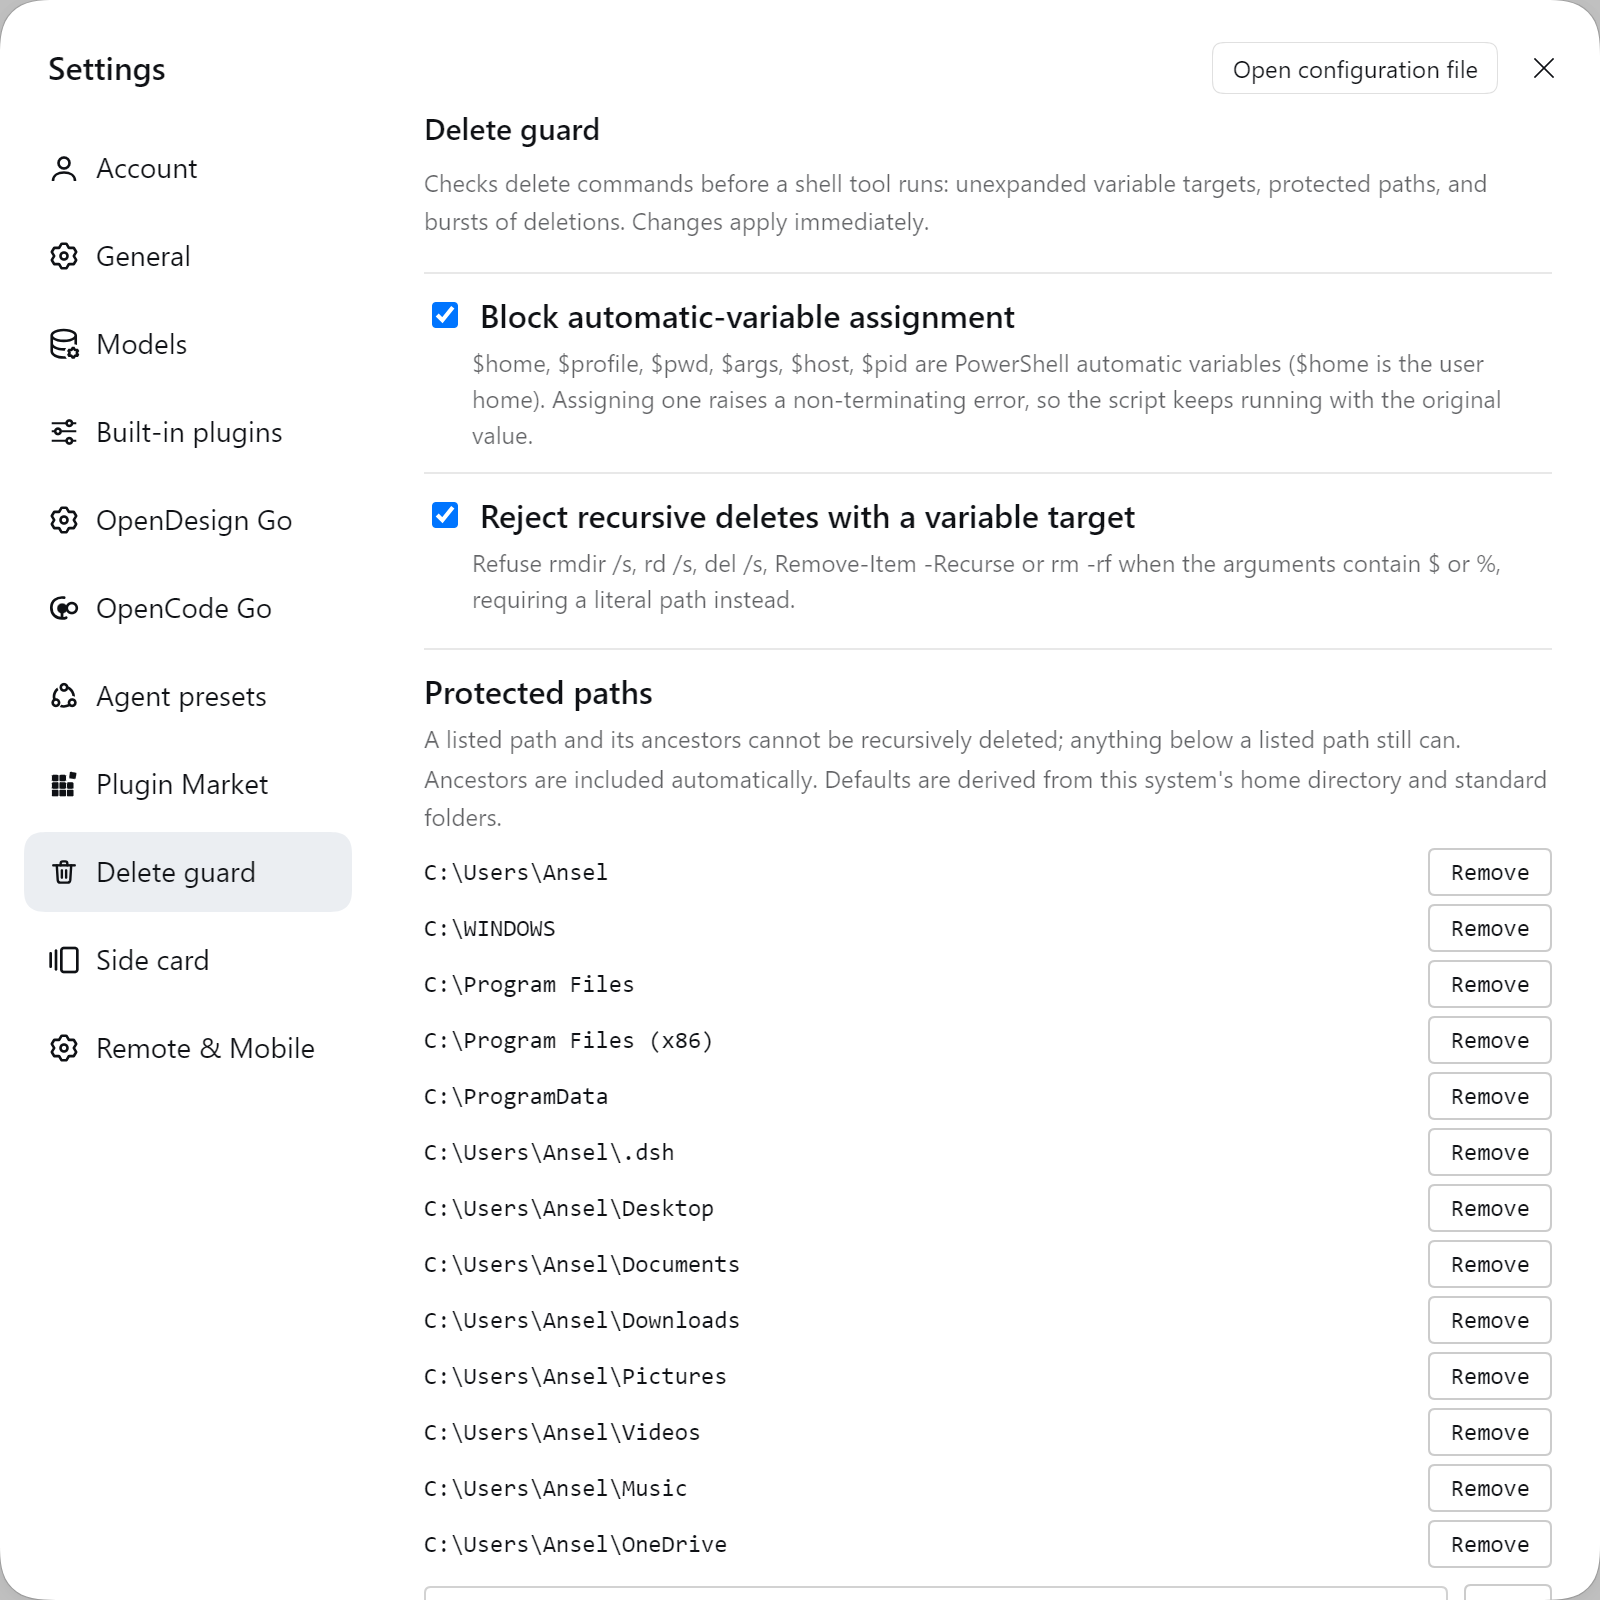
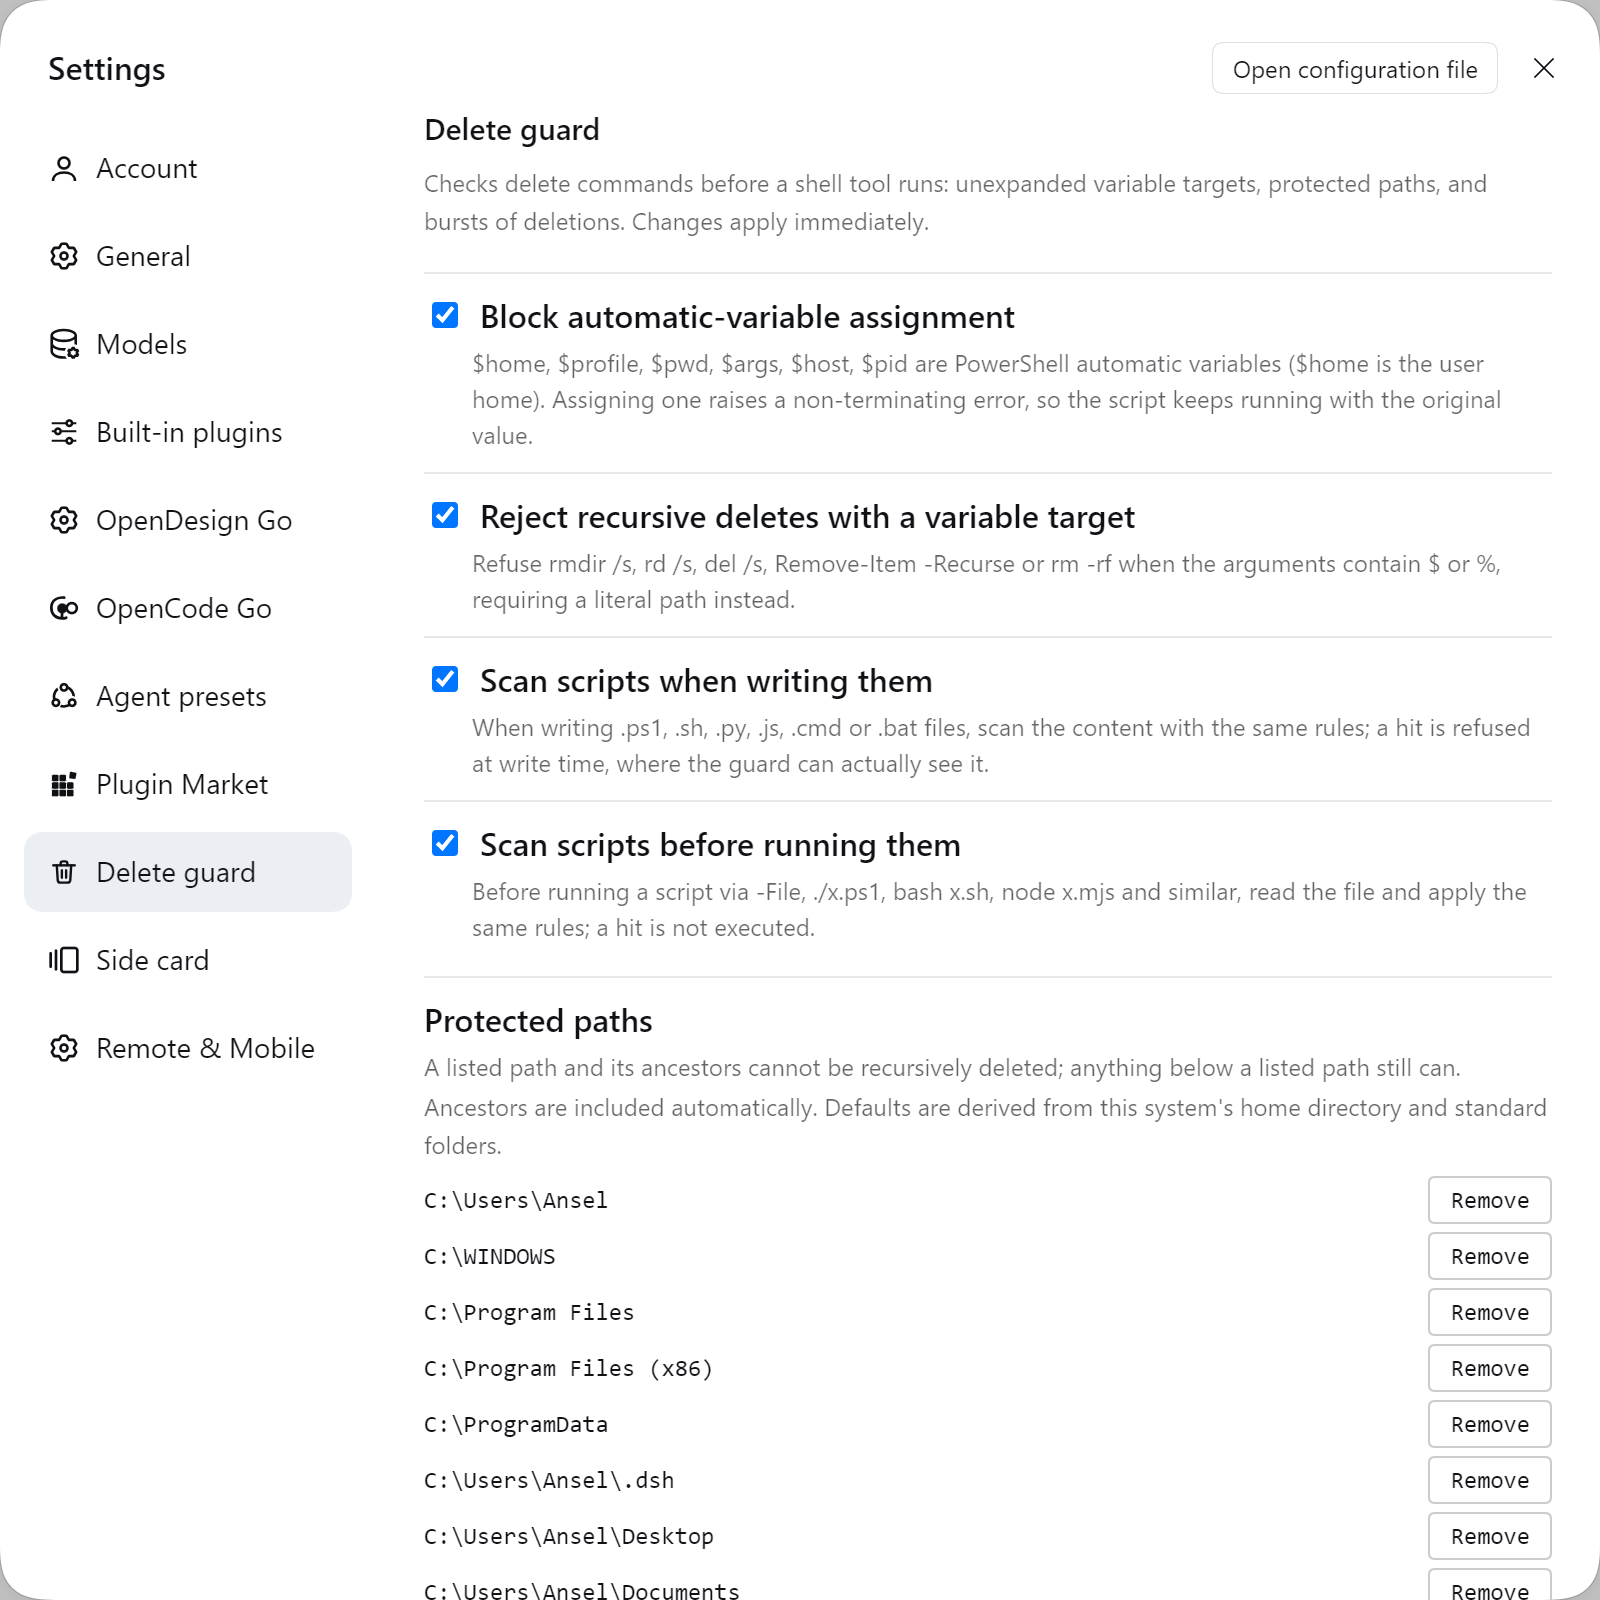
feat: scan script bodies at write time and before execution (1.1.0)
- R5: write/edit of .ps1/.sh/.py/.js/.cmd/.bat is scanned with the same rules
- R6: before running a script (-File, ./x.ps1, bash x.sh, node x.mjs) the file is read and scanned
- both reuse the single evaluate(), so command-line and script rules cannot drift
- settings: two new switches, docs and screenshots refreshed

Changed region(s): [[0.25, 0.4062, 0.9688, 1.0], [0.5312, 0.5312, 0.9688, 1.0]]

diff --git a/client.js b/client.js
@@ -92,11 +92,27 @@ window.__ModuleLoader__.load({
         zhDesc: '递归删除（rmdir /s、rd /s、del /s、Remove-Item -Recurse、rm -rf）的参数里出现 $ 或 % 时拒绝，要求先用字面路径确认目标。',
         enDesc: 'Refuse rmdir /s, rd /s, del /s, Remove-Item -Recurse or rm -rf when the arguments contain $ or %, requiring a literal path instead.',
       },
+      {
+        key: 'scanScriptWrites',
+        zh: '写入脚本时检查正文',
+        en: 'Scan scripts when writing them',
+        zhDesc: '写入 .ps1、.sh、.py、.js、.cmd、.bat 等脚本时，用上面同一套规则扫描内容；命中则拒绝写入，把执行期看不见的问题提前到写入期。',
+        enDesc: 'When writing .ps1, .sh, .py, .js, .cmd or .bat files, scan the content with the same rules; a hit is refused at write time, where the guard can actually see it.',
+      },
+      {
+        key: 'scanScriptExec',
+        zh: '执行脚本前检查内容',
+        en: 'Scan scripts before running them',
+        zhDesc: '执行 -File、./x.ps1、bash x.sh、node x.mjs 等时，先读取该文件再按同一套规则判定；命中的脚本不会被执行。',
+        enDesc: 'Before running a script via -File, ./x.ps1, bash x.sh, node x.mjs and similar, read the file and apply the same rules; a hit is not executed.',
+      },
     ]
 
     const FULL_DEFAULTS = {
       blockAutoVarAssignment: true,
       blockVariableDelete: true,
+      scanScriptWrites: true,
+      scanScriptExec: true,
       maxDeletesPerWindow: 20,
       windowSeconds: 60,
     }

diff --git a/README.md b/README.md
@@ -17,6 +17,8 @@ Policy layer, not a sandbox: it decides *whether a command runs*, it does not in
 | **Automatic-variable assignment** | A command assigns to `$home`, `$profile`, `$pwd`, `$input`, `$args`, `$host`, `$pid`, `$error`, `$matches`, `$pshome`, `$PSScriptRoot`, `$LASTEXITCODE`, … | Denied |
 | **Variable delete target** | A recursive delete (`rmdir /s`, `rd /s`, `del /s`, `Remove-Item -Recurse`, `rm -rf`) whose argument region contains `$` or `%` | Denied |
 | **Protected path** | A recursive delete targets a listed path, or an ancestor of one | Denied |
+| **Script body at write time** | Writing a `.ps1`, `.sh`, `.py`, `.js`, `.cmd`, `.bat` file whose content hits any rule above | Denied |
+| **Script body before it runs** | Executing a script through `-File`, `./x.ps1`, `bash x.sh`, `node x.mjs` while its content hits any rule above | Denied |
 | **Delete rate limit** | More delete commands inside the window than the threshold | Denied |
 
 Why the first rule matters: PowerShell variable names are case-insensitive, so `$home` **is** `$HOME`.
@@ -29,6 +31,16 @@ The path rule uses scope proof rather than a keyword blocklist:
 - A listed path and its **ancestors** are protected — deleting an ancestor would take the listed path with it.
 - Anything **below** a listed path is still deletable, so build output and scratch directories keep working.
 - Deleting a path that is not covered does not need an allowlist entry.
+
+Scripts are covered in both directions, because a delete hidden in a `.ps1` never appears on the
+command line:
+
+- **At write time** the `write`/`edit` tools carry the whole file body, so the same rules run over it.
+- **Before execution** a command such as `pwsh -File x.ps1`, `./x.ps1`, `bash x.sh` or `node x.mjs`
+  makes the guard read that file first and apply the same rules.
+
+Both directions use one shared `evaluate()`, so a line that is refused on the command line is refused
+inside a script too — there is no second rule set to drift.
 
 ## Install
 
@@ -48,6 +60,8 @@ Everything is editable from **Settings → Delete guard** and takes effect on th
 |---|---|---|
 | `blockAutoVarAssignment` | `true` | Deny assignments to PowerShell automatic variables |
 | `blockVariableDelete` | `true` | Deny recursive deletes whose arguments contain `$` or `%` |
+| `scanScriptWrites` | `true` | Scan script content when a file is written through the `write`/`edit` tools |
+| `scanScriptExec` | `true` | Read the file and scan it before a script runs |
 | `protectedPaths` | platform-derived (see below) | Paths that cannot be recursively deleted |
 | `maxDeletesPerWindow` | `20` | Delete commands allowed per window; `0` disables the limit |
 | `windowSeconds` | `60` | Rate-limit window |
@@ -100,7 +114,7 @@ Settings. To return to "computed from this machine", delete that `- id: dsh-dele
 
 | Not covered | Why |
 |---|---|
-| Deletes written inside a script file (`.ps1`, `.sh`, `.py`) | The guard only sees the command line |
+| Deletes assembled at run time (base64, `Add-Type` C#, string concatenation, `[IO.File]::Delete`) | Only static text is scanned; the guard does not execute code to find out |
 | Command names assembled in a variable and invoked (`& $cmd`) | Not resolvable from text |
 | Commands split across several inputs in a persistent terminal | Each call sees only its own text |
 | `robocopy /MIR`, `git clean -fdx` and other non-delete verbs | Outside the delete-verb set |

diff --git a/README.zh-CN.md b/README.zh-CN.md
@@ -16,6 +16,8 @@
 | **自动变量赋值** | 命令给 `$home` `$profile` `$pwd` `$input` `$args` `$host` `$pid` `$error` `$matches` `$pshome` `$PSScriptRoot` `$LASTEXITCODE` 等赋值 | 拒绝 |
 | **变量删除目标** | 递归删除（`rmdir /s`、`rd /s`、`del /s`、`Remove-Item -Recurse`、`rm -rf`）的参数区出现 `$` 或 `%` | 拒绝 |
 | **受保护路径** | 递归删除的目标是清单中的路径，或清单中某个路径的祖先 | 拒绝 |
+| **写入脚本时扫正文** | 写 `.ps1`、`.sh`、`.py`、`.js`、`.cmd`、`.bat` 时，正文命中上面任一规则 | 拒绝写入 |
+| **执行脚本前扫正文** | 通过 `-File`、`./x.ps1`、`bash x.sh`、`node x.mjs` 执行脚本，内容命中上面任一规则 | 拒绝执行 |
 | **删除频率熔断** | 窗口内的删除类命令超过阈值 | 拒绝 |
 
 第一条为什么必要：PowerShell 变量名大小写不敏感，`$home` **就是** `$HOME`。给它赋值是**非终止错误**，
@@ -26,6 +28,14 @@
 - 清单中的路径及其**祖先**受保护——删祖先会连带删掉清单项；
 - 清单路径**下面**的子目录照常可删，构建产物、临时目录不受影响；
 - 未被覆盖的路径不需要额外加白名单。
+
+脚本两个方向都覆盖——藏在 `.ps1` 里的删除不会出现在命令行上：
+
+- **写入时**：`write`/`edit` 工具的参数里就有完整正文，同一套规则直接跑一遍；
+- **执行前**：命令里出现 `pwsh -File x.ps1`、`./x.ps1`、`bash x.sh`、`node x.mjs` 时，
+  守卫先读这个文件，再按同一套规则判定。
+
+两个方向共用同一个 `evaluate()`，所以"命令行里被拒的写法"在脚本里也一定被拒，不存在两套规则漂移。
 
 ## 安装
 
@@ -44,6 +54,8 @@ dsh plugin --profile <profile> add @voltarenyah/dsh-delete-guard
 |---|---|---|
 | `blockAutoVarAssignment` | `true` | 拒绝给 PowerShell 自动变量赋值 |
 | `blockVariableDelete` | `true` | 递归删除参数里出现 `$` 或 `%` 时拒绝 |
+| `scanScriptWrites` | `true` | 通过 `write`/`edit` 写脚本文件时扫描正文 |
+| `scanScriptExec` | `true` | 执行脚本前读取文件内容再判定 |
 | `protectedPaths` | 按平台生成（见下） | 不接受递归删除的路径清单 |
 | `maxDeletesPerWindow` | `20` | 窗口内允许的删除命令数，`0` 关闭 |
 | `windowSeconds` | `60` | 熔断窗口（秒） |
@@ -93,7 +105,7 @@ dsh plugin --profile <profile> add @voltarenyah/dsh-delete-guard
 
 | 不覆盖 | 原因 |
 |---|---|
-| 写在脚本文件（`.ps1`、`.sh`、`.py`）里的删除 | 守卫只看到命令行文本 |
+| 运行时拼出来的删除（base64、`Add-Type` 里的 C#、字符串拼接、`[IO.File]::Delete`） | 只扫静态文本，不会为了判定去执行代码 |
 | 命令名先拼进变量再调用（`& $cmd`） | 文本层面无法求值 |
 | 持久终端里分多次输入拼出的命令 | 每次只看本次文本 |
 | `robocopy /MIR`、`git clean -fdx` 等非删除动词的批量删除 | 不在删除动词集合内 |
